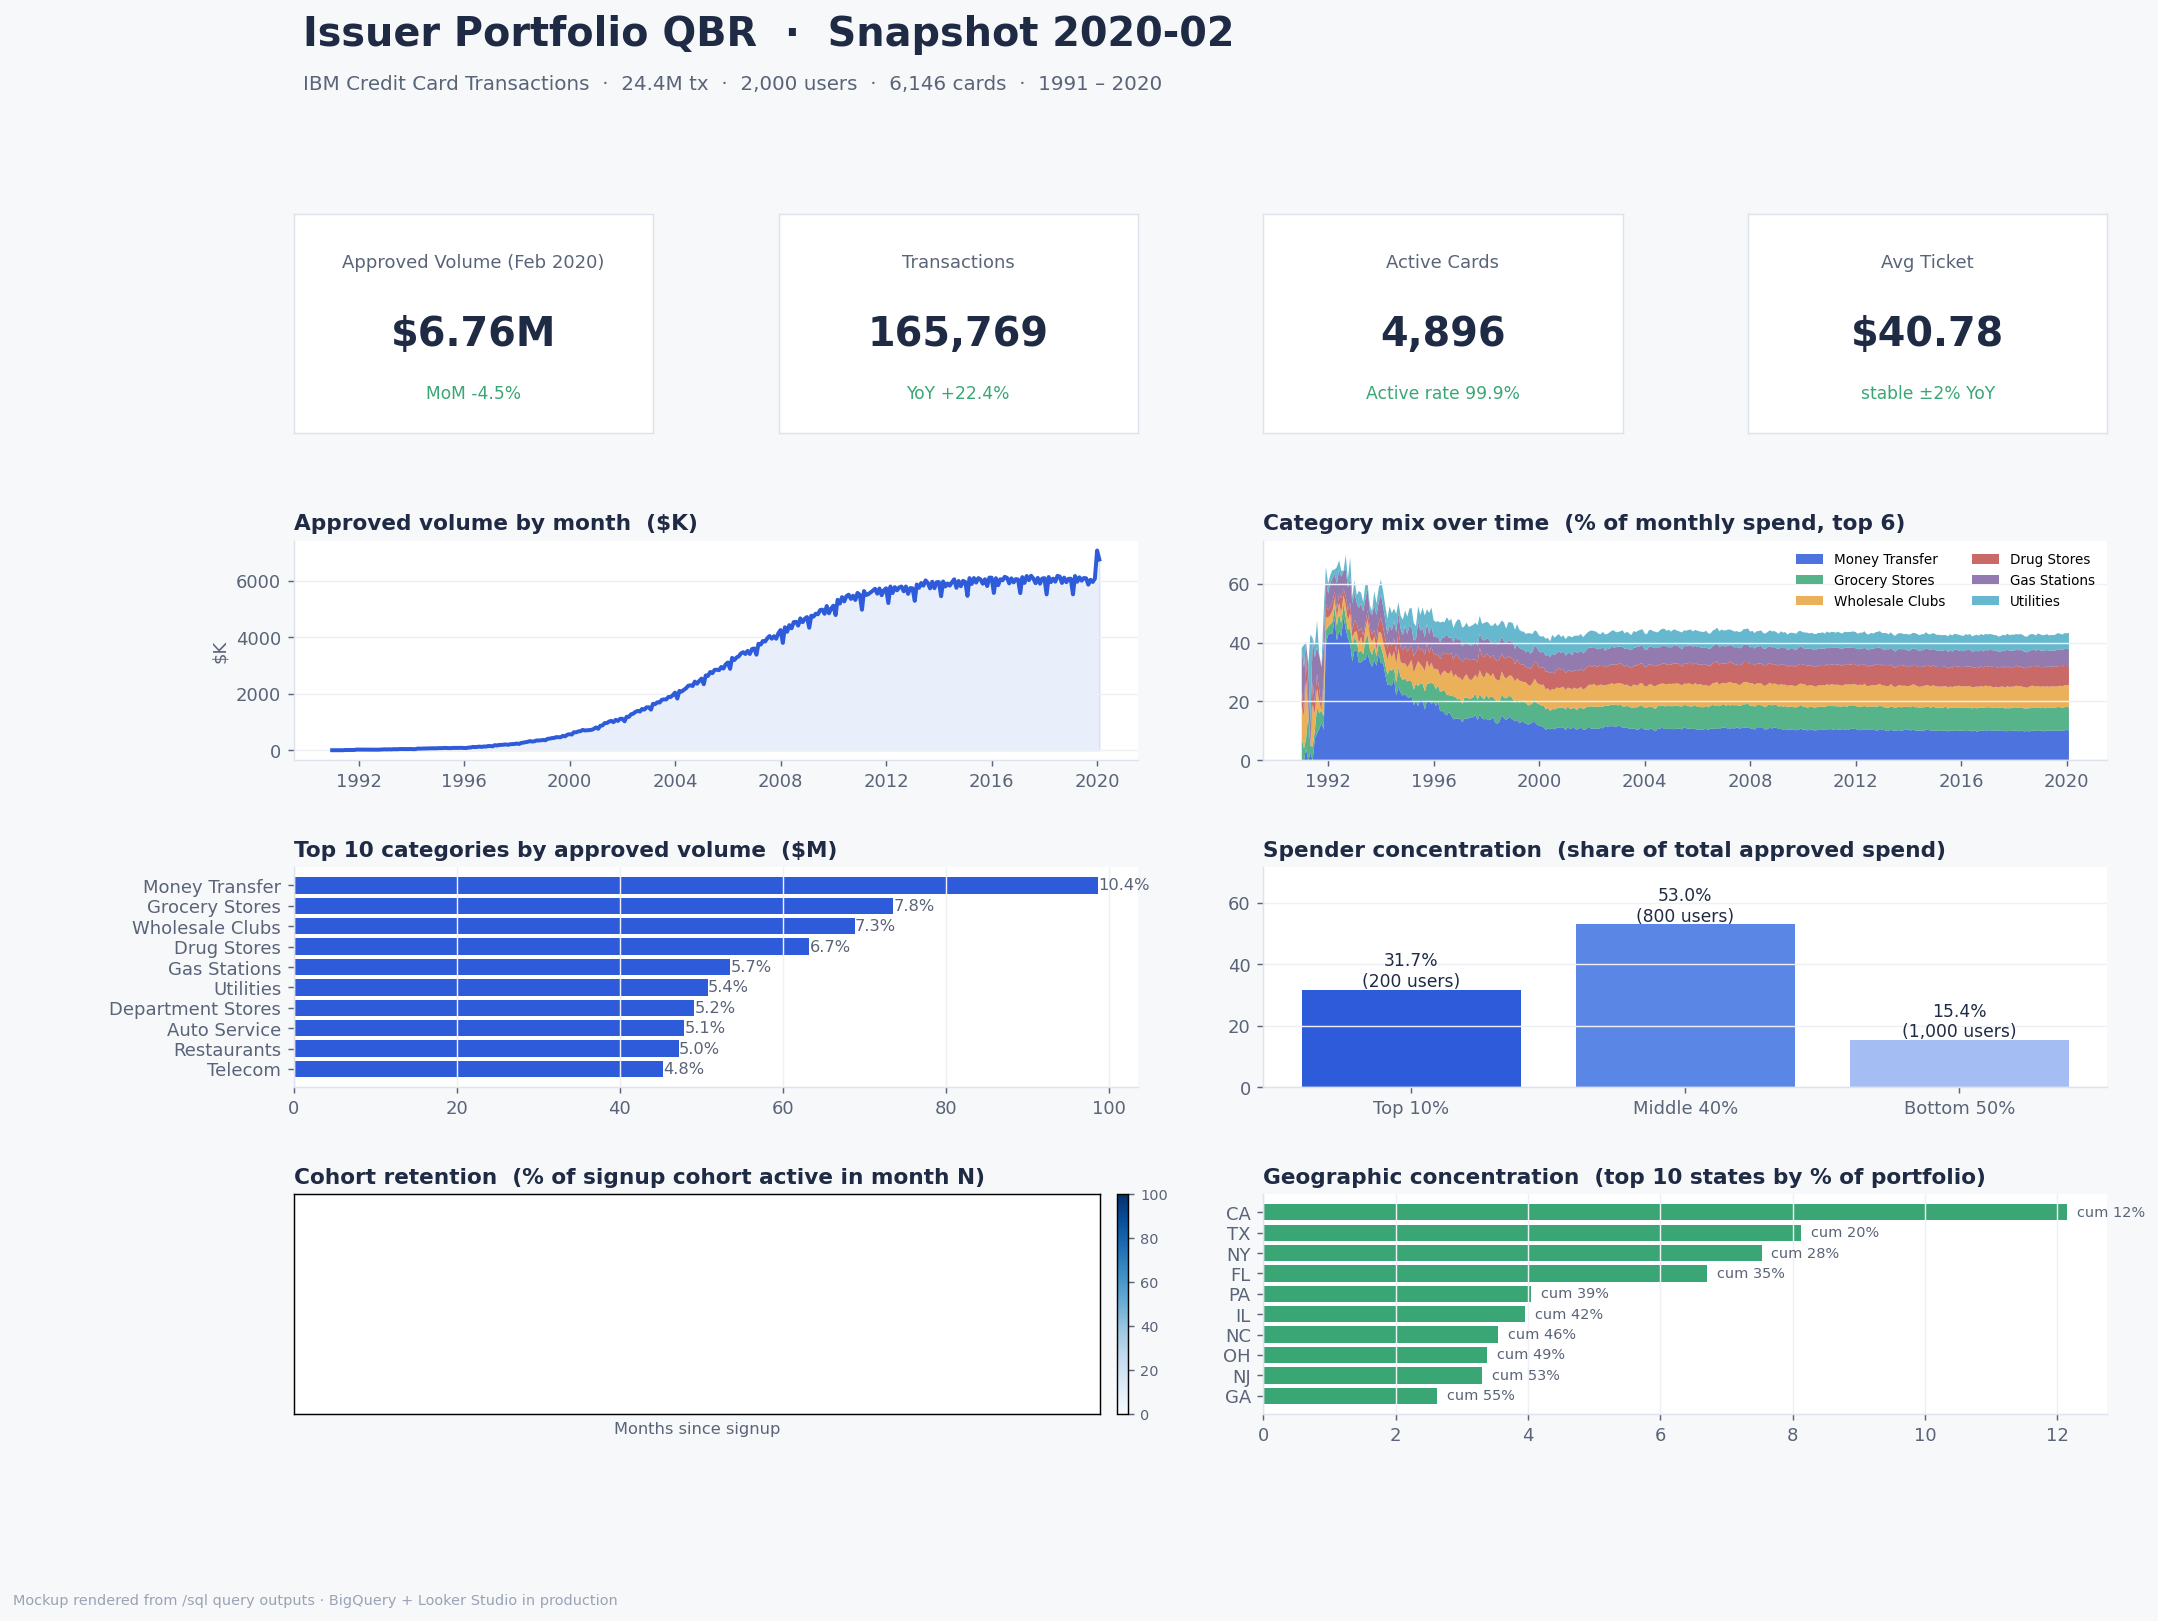
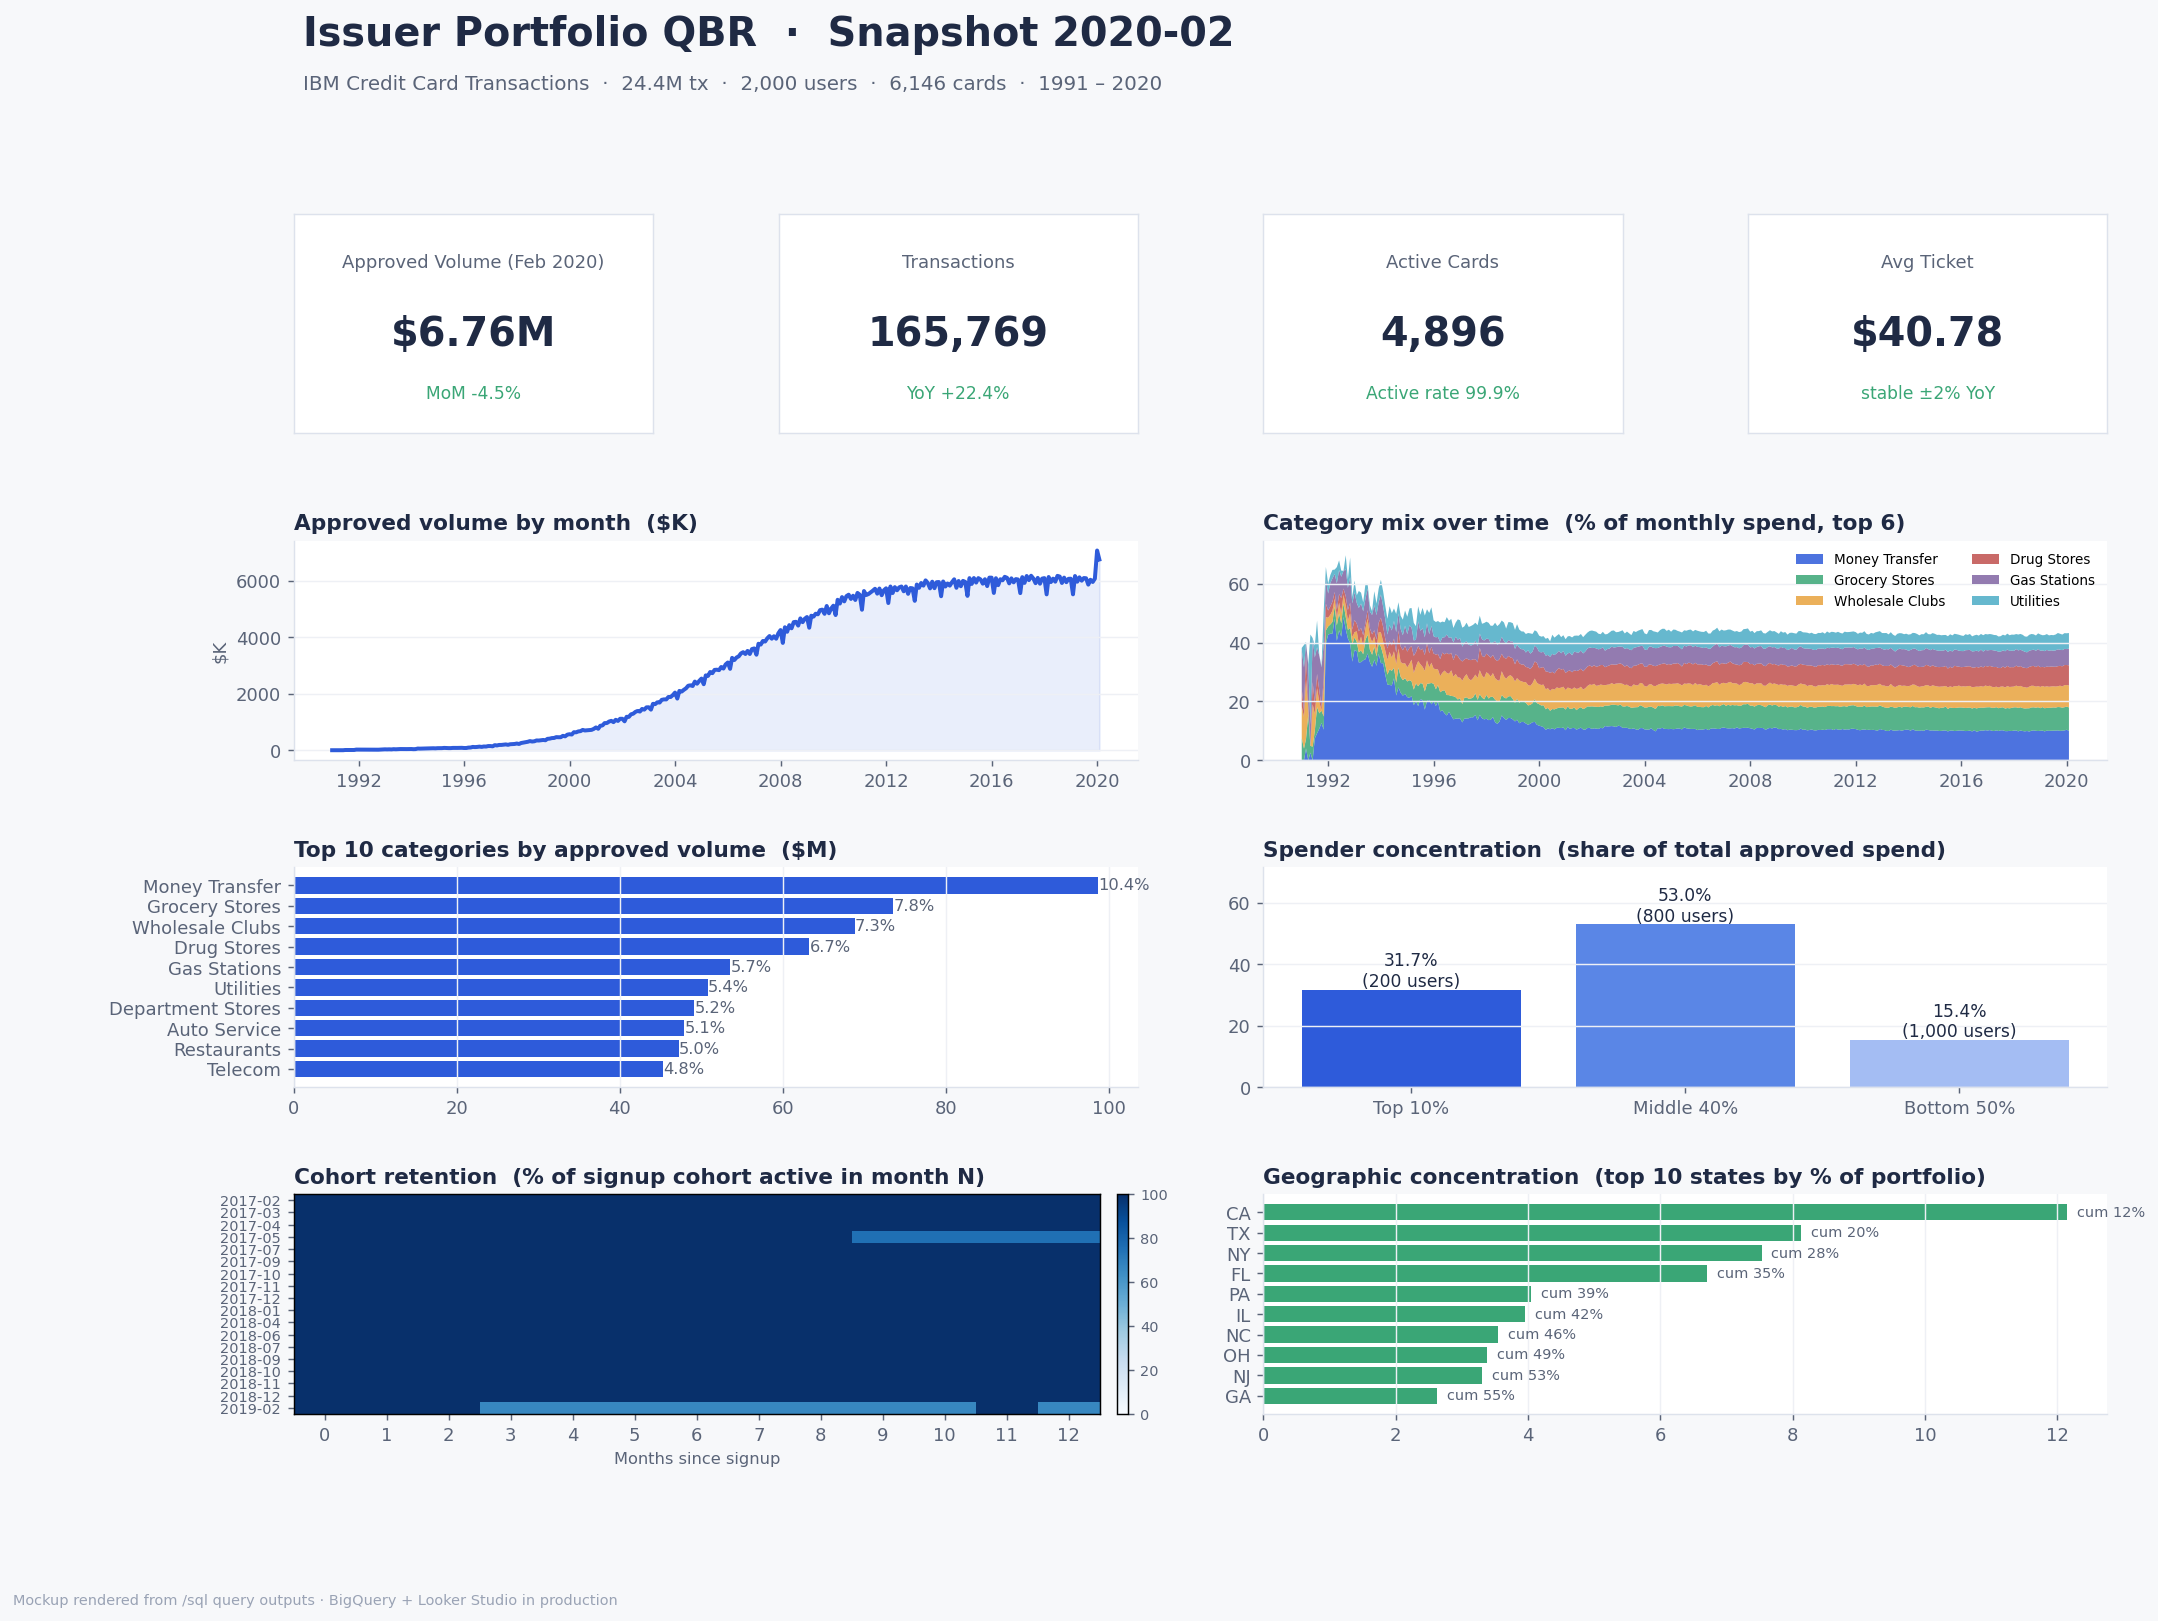
Address review feedback: scoping, cohort viz, BQ verification
- Remove stale 'synthetic version' reference in findings #2
- Add trailing-24-months analysis-window caveat to README Data section
  (acknowledges the 29-year accumulation pattern of the IBM dataset)
- Fix cohort heatmap: previous filter (>=2023-01-01) excluded all real
  cohorts since data ends Feb 2020; now uses 2014-2019 window
- Confirm BigQuery load: 24,386,900 rows live in transactions table
  (monthly-partitioned, clustered on mcc + merchant_state), 2K users,
  6.1K cards, 64 MCC categories. README now states verified row counts.

Changed region(s): [[0.0931, 0.7403, 0.5278, 0.8945]]

diff --git a/python/build_mockup.py b/python/build_mockup.py
@@ -146,9 +146,13 @@ def main() -> None:
     # ---- Row 4 left: cohort heatmap ----
     ax = fig.add_subplot(gs[4, :2])
     ax.set_facecolor("white")
-    co = cohort[cohort["cohort_month"] >= "2023-01-01"]
+    # Use cohorts from the trailing analysis window. The IBM dataset's
+    # signup dates (derived from earliest card open) span 1991-2019, so
+    # filter to cohorts large enough to be visually informative.
+    co = cohort[(cohort["cohort_month"] >= "2014-01-01") &
+                (cohort["cohort_month"] <= "2019-06-01")]
     piv = co.pivot(index="cohort_month", columns="months_since_signup", values="retention_pct")
-    piv = piv.iloc[:18, :13]
+    piv = piv.tail(18).iloc[:, :13]
     im = ax.imshow(piv.values, aspect="auto", cmap="Blues", vmin=0, vmax=100)
     ax.set_xticks(range(piv.shape[1]))
     ax.set_xticklabels(piv.columns)

diff --git a/README.md b/README.md
@@ -33,6 +33,11 @@ matter most, and what risks are worth flagging. The four query themes
   (Ealtman 2019). The findings in this repo were generated against the
   **real dataset**: 24.4M transactions, 2,000 cardholders, 6,146 cards,
   Jan 1991 – Feb 2020.
+- **Analysis window.** The IBM dataset accumulates synthetic-user
+  activity over 29 years rather than reflecting a stable production
+  portfolio. KPI-driven findings focus on the **trailing 24 months
+  (Mar 2018 – Feb 2020)** as the relevant window for QBR-style
+  reporting; longer-term charts are shown for context only.
 - **Fallback:** [`python/generate_data.py`](python/generate_data.py)
   produces a schema-identical synthetic dataset (500K rows) for use
   when Kaggle isn't available — useful for CI / quick iteration.
@@ -136,7 +141,10 @@ python python/duckdb_to_bigquery.py
 ```
 
 The dataset for this project is live at
-`credit-card-analytics-497117.credit_card_analytics` (BigQuery).
+`credit-card-analytics-497117.credit_card_analytics` (BigQuery):
+24,386,900 rows in `transactions` (monthly-partitioned by `tx_date`,
+clustered on `mcc, merchant_state`), 2,000 in `users`, 6,146 in
+`cards`, 64 in `mcc_lookup`. Verified via `bq query`.
 
 ## What I'd Do Next
 

diff --git a/docs/findings.md b/docs/findings.md
@@ -35,9 +35,9 @@ Active card rate (cards with ≥1 approved tx / eligible cards) has run
 between **99.5% and 100%** for the last twelve months (Q1.2). This is
 a near-universally-engaged book.
 
-**Why it matters.** Inverse of finding #1 in the synthetic version —
-this portfolio has effectively no activation problem. Future growth
-has to come from per-card spend, not from waking up dormant plastic.
+**Why it matters.** This portfolio has effectively no activation
+problem. Future growth has to come from per-card spend, not from
+waking up dormant plastic.
 
 **Suggested next step.** Shift KPI focus from "active card rate" (which
 is at ceiling) to "high-engagement cards" — defined e.g. as cards with